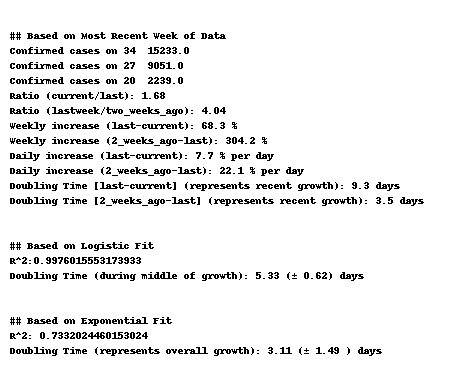
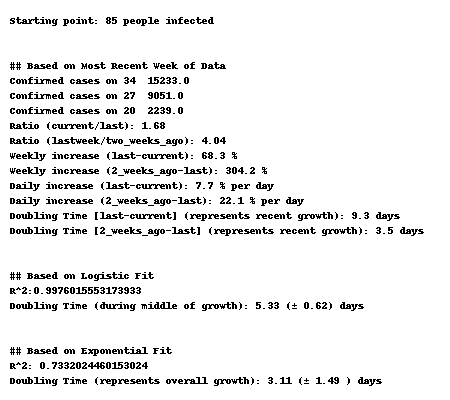
added toe starting point to the report

diff --git a/creating_report.py b/creating_report.py
@@ -23,7 +23,7 @@ def exponential(t, a, b, c):
 
 def plotCases(dataframe, column, c):
     country, inhabitants = c
-    border = relevance * (inhabitants / 10000)
+    border = int(relevance * (inhabitants / 10000))
 
     if country is None:
         co = dataframe.iloc[:, 4:].T.sum(axis=1)
@@ -54,6 +54,8 @@ def plotCases(dataframe, column, c):
     content = []
 
     if current > lastweek:
+        content.append(f"Starting point: {border} people infected")
+        content.append("")
         content.append('\n## Based on Most Recent Week of Data \n')
         content.append("")
         content.append(f'\tConfirmed cases on {co.index[-1]} \t {current}\n')
@@ -129,7 +131,7 @@ def plotCases(dataframe, column, c):
         pass
 
     # write with pillo a image with write background
-    img = Image.new('RGB', (450, 380), color=(255, 255, 255))
+    img = Image.new('RGB', (450, 400), color=(255, 255, 255))
     d = ImageDraw.Draw(img)
     for i, l in enumerate(content):
         d.text((10, 15 * (i + 1)), l, fill=(0, 0, 0))
